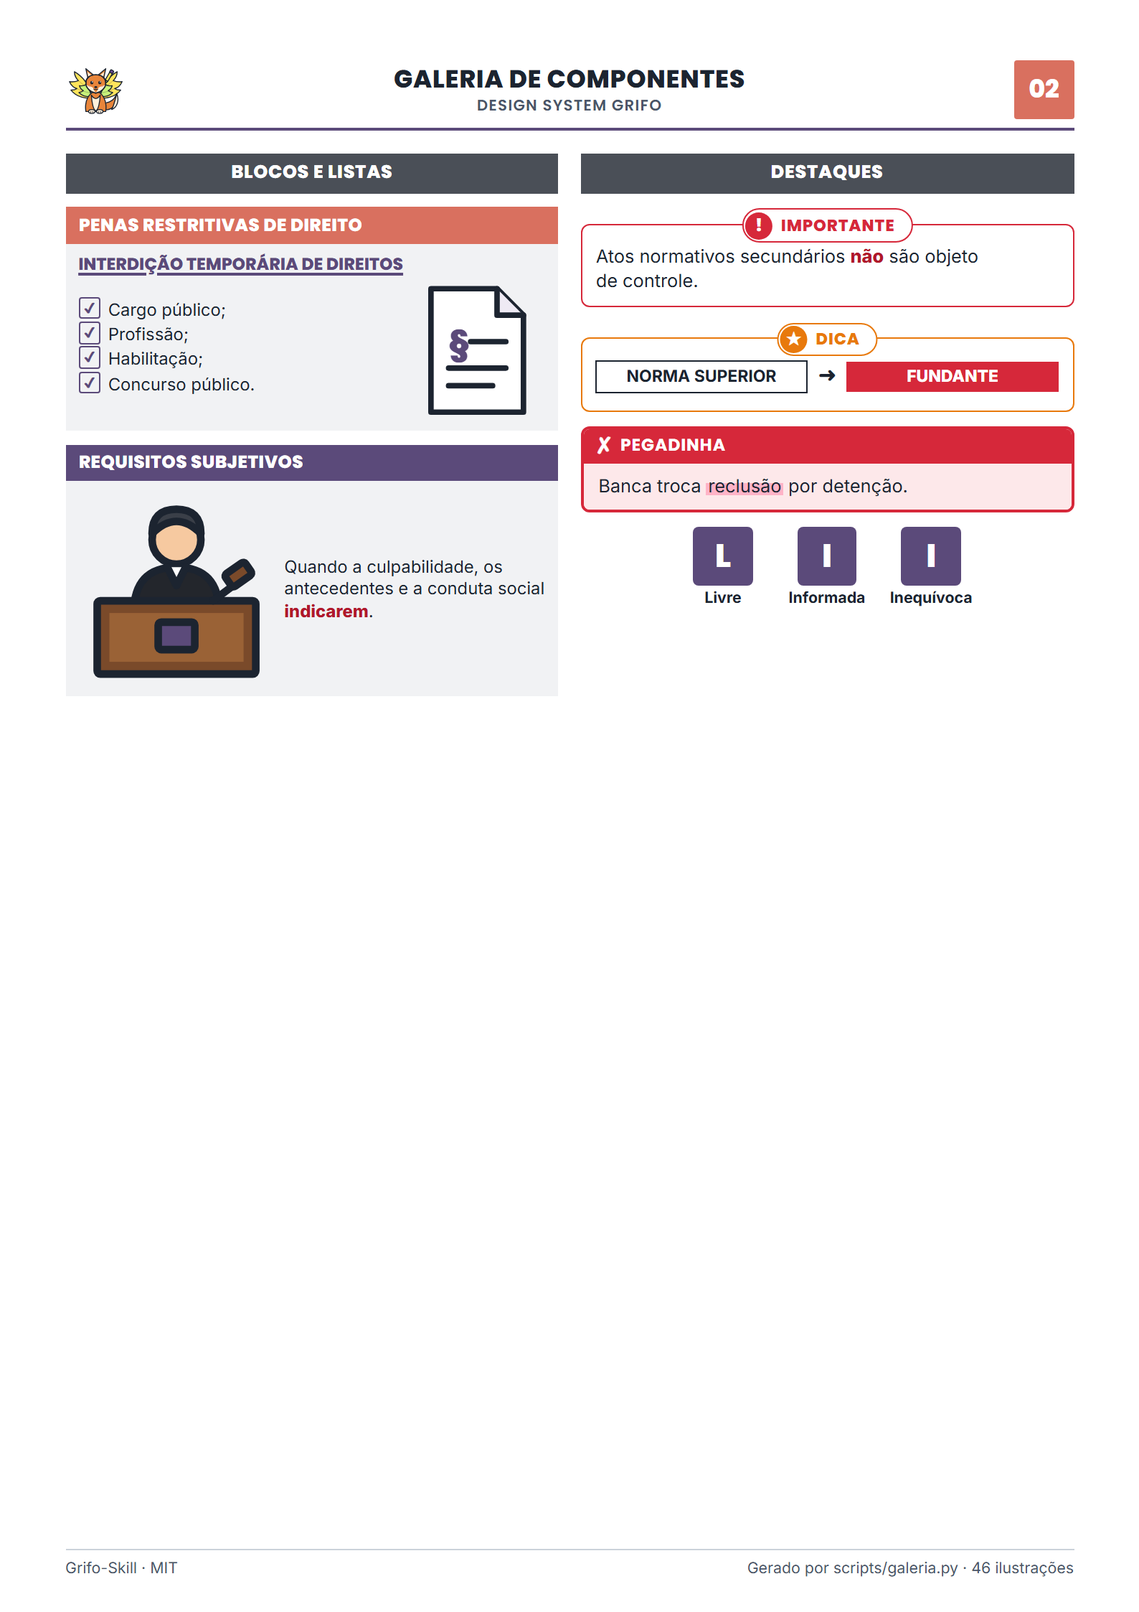
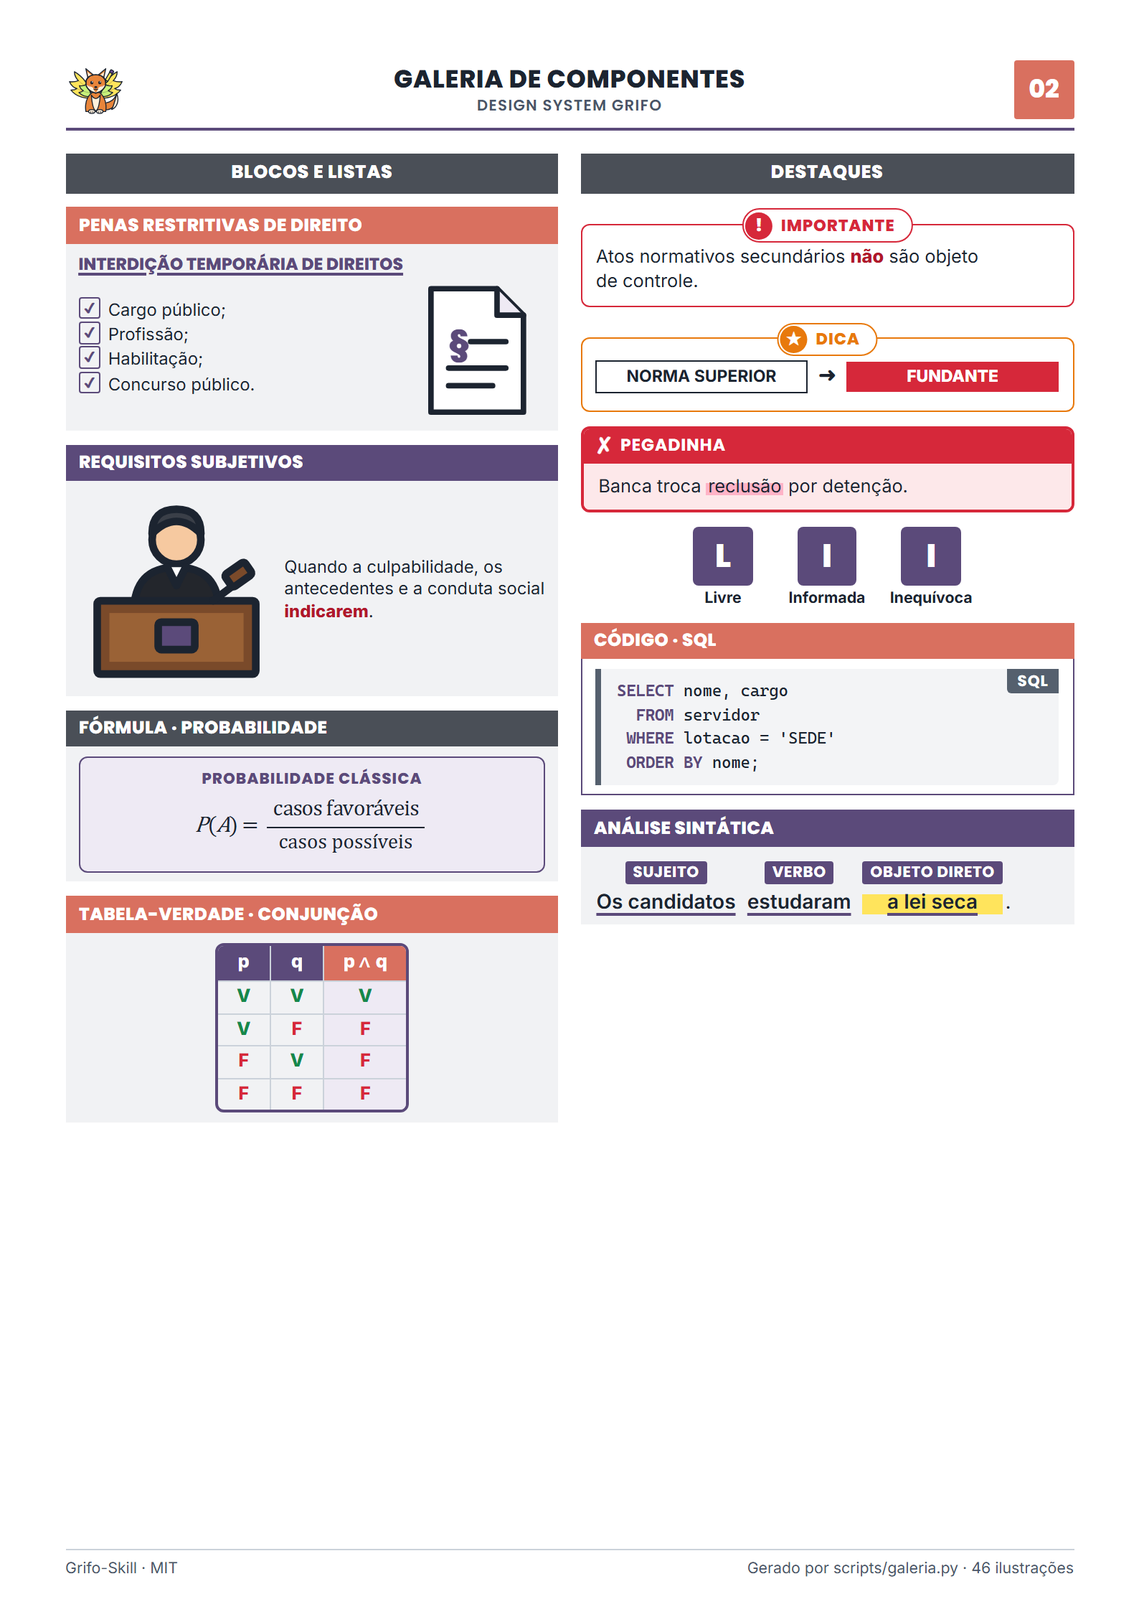
feat(componentes): .formula, table.verdade, pre.codigo e .exemplo-frase
CSS no grifo.css, exemplos em componentes.md, linha na tabela forma ->
componente do design.md §3 e amostra na folha 2 da galeria
(docs/galeria-componentes.png).

Changed region(s): [[0.0617, 0.374, 0.9565, 0.6857]]

diff --git a/exemplos/galeria.html b/exemplos/galeria.html
@@ -334,7 +334,7 @@ table.comparativo tr.destaque td { background: var(--pegadinha-claro) !important
 /* ===================== FLASHCARDS (recorte) ===================== */
 .flashcards { display: grid; grid-template-columns: 1fr 1fr; gap: 0; border: 1px dashed #999; }
 .flashcards .card {
-  min-height: 52mm; padding: 4mm; border: 1px dashed #999; display: flex; flex-direction: column; justify-content: center;
+  min-height: 29mm; padding: 3mm 4mm; border: 1px dashed #999; display: flex; flex-direction: column; justify-content: center;
   text-align: center; break-inside: avoid; position: relative;
 }
 .flashcards .card .lado { position: absolute; top: 2mm; left: 3mm; font-size: 8pt; color: var(--tinta-2); text-transform: uppercase; letter-spacing: .08em; }
@@ -517,6 +517,81 @@ h1, h2, h3, h4, .faixa, .coluna-cab, .titulo-topico, .titulo-topo, .secao, .sub,
   -webkit-hyphens: manual; hyphens: manual;
 }
 .faixa, .coluna-cab, .titulo-topico, .secao, th, .rotulo { text-wrap: balance; }
+
+/* ===================== FÓRMULA (RLM, estatística, financeira) =====================
+   <div class="formula"><span class="rot">Probabilidade</span>
+     P(A) = <span class="frac"><span>favoráveis</span><span>possíveis</span></span></div> */
+.formula {
+  font-family: "STIX Two Math", "Cambria Math", Cambria, Georgia, "Times New Roman", serif;
+  font-size: 11.5pt; text-align: center; background: var(--disc-claro);
+  border: 1.5px solid var(--disc); border-radius: var(--raio); padding: 2mm 3mm; margin: 1mm 0;
+  break-inside: avoid; line-height: 1.5;
+}
+.formula .rot {
+  display: block; font-family: var(--fonte-titulo); font-size: 8pt; font-weight: 800;
+  text-transform: uppercase; letter-spacing: .05em; color: var(--disc); margin-bottom: .5mm;
+}
+.formula i, .formula var { font-style: italic; }
+.formula .frac { display: inline-flex; flex-direction: column; vertical-align: middle; text-align: center; margin: 0 .2em; }
+.formula .frac > span { padding: 0 .3em; }
+.formula .frac > span:first-child { border-bottom: 1.2px solid currentColor; }
+.formula .frac > span:last-child { font-size: .95em; }
+
+/* ===================== TABELA-VERDADE =====================
+   <table class="verdade"><tr><th>p</th><th>q</th><th>p ∧ q</th></tr>
+     <tr><td class="v">V</td><td class="f">F</td><td class="f res">F</td></tr></table>
+   V verde, F vermelho e a coluna de resultado (.res) sombreada; a letra
+   V/F continua escrita, então funciona em P&B. */
+table.verdade {
+  border-collapse: separate; border-spacing: 0; margin: 1mm auto; font-size: 9.5pt;
+  border: 2px solid var(--disc); border-radius: var(--raio); overflow: hidden; break-inside: avoid;
+}
+table.verdade th {
+  background: var(--disc); color: #fff; font-family: var(--fonte-corpo); font-weight: 800;
+  padding: 1mm 3.5mm; text-align: center; white-space: nowrap;
+}
+table.verdade td { text-align: center; font-weight: 800; padding: .6mm 3.5mm; border-top: 1px solid var(--linha); }
+table.verdade td + td, table.verdade th + th { border-left: 1px solid var(--linha); }
+table.verdade td.v { color: var(--dica); }
+table.verdade td.f { color: var(--pegadinha); }
+table.verdade td.res { background: var(--disc-claro); }
+table.verdade th.res { background: var(--disc-2); }
+table.verdade tr.destaque td { background: var(--mt-chave); }
+
+/* ===================== CÓDIGO (TI: SQL, pseudocódigo) =====================
+   <pre class="codigo"><span class="rot">SQL</span>SELECT …</pre>  — sem syntax highlight */
+.codigo {
+  font-family: "JetBrains Mono", "Cascadia Mono", Consolas, "Courier New", monospace;
+  font-size: 8.5pt; line-height: 1.45; background: var(--lei-claro); color: var(--tinta);
+  border-left: 4px solid var(--lei); border-radius: 0 4px 4px 0; padding: 2mm 3mm; margin: 1mm 0;
+  white-space: pre-wrap; overflow-wrap: anywhere; hyphens: none; position: relative; break-inside: avoid;
+}
+.codigo .rot {
+  position: absolute; top: 0; right: 0; background: var(--lei); color: #fff;
+  font-family: var(--fonte-titulo); font-size: 8pt; font-weight: 700; text-transform: uppercase;
+  padding: .2mm 2mm; border-radius: 0 0 0 3px; letter-spacing: .05em;
+}
+.codigo b { color: var(--disc); }
+
+/* ===================== EXEMPLO-FRASE (Português: análise) =====================
+   <p class="exemplo-frase"><span class="termo" data-funcao="sujeito">Os candidatos</span> …</p>
+   Trecho analisado sublinhado; função sintática em rótulo acima. */
+.exemplo-frase { font-size: 10.5pt; line-height: 1.3; margin: 1mm 0 2mm; }
+/* rótulo no fluxo (não absoluto): o termo fica tão largo quanto o rótulo e
+   os rótulos vizinhos nunca se sobrepõem */
+.exemplo-frase .termo {
+  display: inline-flex; flex-direction: column; align-items: center; vertical-align: bottom;
+  margin: 1mm .15em 0; font-weight: 600;
+  text-decoration: underline 2.2px var(--disc); text-underline-offset: 3px; text-decoration-skip-ink: none;
+}
+.exemplo-frase .termo::before {
+  content: attr(data-funcao); margin-bottom: .8mm; font-family: var(--fonte-titulo); font-size: 8pt;
+  font-weight: 700; text-transform: uppercase; letter-spacing: .03em; color: #fff; background: var(--disc);
+  padding: 0 1.4mm; border-radius: 2px; white-space: nowrap; line-height: 1.5; text-decoration: none;
+}
+.exemplo-frase .termo.destaque { background: linear-gradient(transparent 62%, var(--mt-chave) 62%); }
+.exemplo-frase .termo.erro { text-decoration-color: var(--pegadinha); }
+.exemplo-frase .termo.erro::before { background: var(--pegadinha); }
 
 </style>
 <style>
@@ -862,12 +937,31 @@ h1, h2, h3, h4, .faixa, .coluna-cab, .titulo-topico, .titulo-topo, .secao, .sub,
    <div class="com-ilustra"><ul class="check"><li>Cargo público;</li><li>Profissão;</li><li>Habilitação;</li><li>Concurso público.</li></ul><svg class="ilustra g"><use href="#i-documento"/></svg></div>
   </div></div>
   <div class="bloco primaria"><div class="faixa">Requisitos subjetivos</div><div class="corpo"><div class="com-ilustra esq"><svg class="ilustra gg"><use href="#i-juiz"/></svg><p>Quando a culpabilidade, os antecedentes e a conduta social <span class="chave-v">indicarem</span>.</p></div></div></div>
+  <div class="bloco escura"><div class="faixa">Fórmula · probabilidade</div><div class="corpo">
+   <div class="formula"><span class="rot">Probabilidade clássica</span><i>P</i>(<i>A</i>) = <span class="frac"><span>casos favoráveis</span><span>casos possíveis</span></span></div>
+  </div></div>
+  <div class="bloco"><div class="faixa">Tabela-verdade · conjunção</div><div class="corpo">
+   <table class="verdade"><tr><th>p</th><th>q</th><th class="res">p ∧ q</th></tr>
+   <tr><td class="v">V</td><td class="v">V</td><td class="v res">V</td></tr>
+   <tr><td class="v">V</td><td class="f">F</td><td class="f res">F</td></tr>
+   <tr><td class="f">F</td><td class="v">V</td><td class="f res">F</td></tr>
+   <tr><td class="f">F</td><td class="f">F</td><td class="f res">F</td></tr></table>
+  </div></div>
  </div>
  <div class="coluna"><div class="coluna-cab">Destaques</div>
   <div class="tag-caixa"><span class="tag">Importante</span><p>Atos normativos secundários <span class="chave-v">não</span> são objeto de controle.</p></div>
   <div class="tag-caixa dica"><span class="tag dica">Dica</span><div class="relacao"><div class="de">Norma superior</div><div class="seta">➜</div><div class="para">Fundante</div></div></div>
   <div class="caixa pegadinha"><div class="rotulo">Pegadinha</div><div class="corpo">Banca troca <mark class="troca">reclusão</mark> por detenção.</div></div>
   <div class="sigla"><div class="letra"><b>L</b><span>Livre</span></div><div class="letra"><b>I</b><span>Informada</span></div><div class="letra"><b>I</b><span>Inequívoca</span></div></div>
+  <div class="bloco contorno"><div class="faixa">Código · SQL</div><div class="corpo">
+   <pre class="codigo"><span class="rot">SQL</span><b>SELECT</b> nome, cargo
+  <b>FROM</b> servidor
+ <b>WHERE</b> lotacao = 'SEDE'
+ <b>ORDER BY</b> nome;</pre>
+  </div></div>
+  <div class="bloco primaria"><div class="faixa">Análise sintática</div><div class="corpo">
+   <p class="exemplo-frase"><span class="termo" data-funcao="sujeito">Os candidatos</span> <span class="termo" data-funcao="verbo">estudaram</span> <span class="termo destaque" data-funcao="objeto direto">a lei seca</span>.</p>
+  </div></div>
  </div>
 </div>
 <div class="rodape-folha"><span>Grifo-Skill · MIT</span><span>Gerado por scripts/<wbr>galeria.py · 46 ilustrações</span></div></div>

diff --git a/skills/grifo/assets/grifo.css b/skills/grifo/assets/grifo.css
@@ -513,3 +513,78 @@ h1, h2, h3, h4, .faixa, .coluna-cab, .titulo-topico, .titulo-topo, .secao, .sub,
   -webkit-hyphens: manual; hyphens: manual;
 }
 .faixa, .coluna-cab, .titulo-topico, .secao, th, .rotulo { text-wrap: balance; }
+
+/* ===================== FÓRMULA (RLM, estatística, financeira) =====================
+   <div class="formula"><span class="rot">Probabilidade</span>
+     P(A) = <span class="frac"><span>favoráveis</span><span>possíveis</span></span></div> */
+.formula {
+  font-family: "STIX Two Math", "Cambria Math", Cambria, Georgia, "Times New Roman", serif;
+  font-size: 11.5pt; text-align: center; background: var(--disc-claro);
+  border: 1.5px solid var(--disc); border-radius: var(--raio); padding: 2mm 3mm; margin: 1mm 0;
+  break-inside: avoid; line-height: 1.5;
+}
+.formula .rot {
+  display: block; font-family: var(--fonte-titulo); font-size: 8pt; font-weight: 800;
+  text-transform: uppercase; letter-spacing: .05em; color: var(--disc); margin-bottom: .5mm;
+}
+.formula i, .formula var { font-style: italic; }
+.formula .frac { display: inline-flex; flex-direction: column; vertical-align: middle; text-align: center; margin: 0 .2em; }
+.formula .frac > span { padding: 0 .3em; }
+.formula .frac > span:first-child { border-bottom: 1.2px solid currentColor; }
+.formula .frac > span:last-child { font-size: .95em; }
+
+/* ===================== TABELA-VERDADE =====================
+   <table class="verdade"><tr><th>p</th><th>q</th><th>p ∧ q</th></tr>
+     <tr><td class="v">V</td><td class="f">F</td><td class="f res">F</td></tr></table>
+   V verde, F vermelho e a coluna de resultado (.res) sombreada; a letra
+   V/F continua escrita, então funciona em P&B. */
+table.verdade {
+  border-collapse: separate; border-spacing: 0; margin: 1mm auto; font-size: 9.5pt;
+  border: 2px solid var(--disc); border-radius: var(--raio); overflow: hidden; break-inside: avoid;
+}
+table.verdade th {
+  background: var(--disc); color: #fff; font-family: var(--fonte-corpo); font-weight: 800;
+  padding: 1mm 3.5mm; text-align: center; white-space: nowrap;
+}
+table.verdade td { text-align: center; font-weight: 800; padding: .6mm 3.5mm; border-top: 1px solid var(--linha); }
+table.verdade td + td, table.verdade th + th { border-left: 1px solid var(--linha); }
+table.verdade td.v { color: var(--dica); }
+table.verdade td.f { color: var(--pegadinha); }
+table.verdade td.res { background: var(--disc-claro); }
+table.verdade th.res { background: var(--disc-2); }
+table.verdade tr.destaque td { background: var(--mt-chave); }
+
+/* ===================== CÓDIGO (TI: SQL, pseudocódigo) =====================
+   <pre class="codigo"><span class="rot">SQL</span>SELECT …</pre>  — sem syntax highlight */
+.codigo {
+  font-family: "JetBrains Mono", "Cascadia Mono", Consolas, "Courier New", monospace;
+  font-size: 8.5pt; line-height: 1.45; background: var(--lei-claro); color: var(--tinta);
+  border-left: 4px solid var(--lei); border-radius: 0 4px 4px 0; padding: 2mm 3mm; margin: 1mm 0;
+  white-space: pre-wrap; overflow-wrap: anywhere; hyphens: none; position: relative; break-inside: avoid;
+}
+.codigo .rot {
+  position: absolute; top: 0; right: 0; background: var(--lei); color: #fff;
+  font-family: var(--fonte-titulo); font-size: 8pt; font-weight: 700; text-transform: uppercase;
+  padding: .2mm 2mm; border-radius: 0 0 0 3px; letter-spacing: .05em;
+}
+.codigo b { color: var(--disc); }
+
+/* ===================== EXEMPLO-FRASE (Português: análise) =====================
+   <p class="exemplo-frase"><span class="termo" data-funcao="sujeito">Os candidatos</span> …</p>
+   Trecho analisado sublinhado; função sintática em rótulo acima. */
+.exemplo-frase { font-size: 10.5pt; line-height: 1.3; margin: 1mm 0 2mm; }
+/* rótulo no fluxo (não absoluto): o termo fica tão largo quanto o rótulo e
+   os rótulos vizinhos nunca se sobrepõem */
+.exemplo-frase .termo {
+  display: inline-flex; flex-direction: column; align-items: center; vertical-align: bottom;
+  margin: 1mm .15em 0; font-weight: 600;
+  text-decoration: underline 2.2px var(--disc); text-underline-offset: 3px; text-decoration-skip-ink: none;
+}
+.exemplo-frase .termo::before {
+  content: attr(data-funcao); margin-bottom: .8mm; font-family: var(--fonte-titulo); font-size: 8pt;
+  font-weight: 700; text-transform: uppercase; letter-spacing: .03em; color: #fff; background: var(--disc);
+  padding: 0 1.4mm; border-radius: 2px; white-space: nowrap; line-height: 1.5; text-decoration: none;
+}
+.exemplo-frase .termo.destaque { background: linear-gradient(transparent 62%, var(--mt-chave) 62%); }
+.exemplo-frase .termo.erro { text-decoration-color: var(--pegadinha); }
+.exemplo-frase .termo.erro::before { background: var(--pegadinha); }

diff --git a/exemplos/galeria-fonte.html b/exemplos/galeria-fonte.html
@@ -18,12 +18,31 @@
    <div class="com-ilustra"><ul class="check"><li>Cargo público;</li><li>Profissão;</li><li>Habilitação;</li><li>Concurso público.</li></ul><svg class="ilustra g"><use href="#i-documento"/></svg></div>
   </div></div>
   <div class="bloco primaria"><div class="faixa">Requisitos subjetivos</div><div class="corpo"><div class="com-ilustra esq"><svg class="ilustra gg"><use href="#i-juiz"/></svg><p>Quando a culpabilidade, os antecedentes e a conduta social <span class="chave-v">indicarem</span>.</p></div></div></div>
+  <div class="bloco escura"><div class="faixa">Fórmula · probabilidade</div><div class="corpo">
+   <div class="formula"><span class="rot">Probabilidade clássica</span><i>P</i>(<i>A</i>) = <span class="frac"><span>casos favoráveis</span><span>casos possíveis</span></span></div>
+  </div></div>
+  <div class="bloco"><div class="faixa">Tabela-verdade · conjunção</div><div class="corpo">
+   <table class="verdade"><tr><th>p</th><th>q</th><th class="res">p ∧ q</th></tr>
+   <tr><td class="v">V</td><td class="v">V</td><td class="v res">V</td></tr>
+   <tr><td class="v">V</td><td class="f">F</td><td class="f res">F</td></tr>
+   <tr><td class="f">F</td><td class="v">V</td><td class="f res">F</td></tr>
+   <tr><td class="f">F</td><td class="f">F</td><td class="f res">F</td></tr></table>
+  </div></div>
  </div>
  <div class="coluna"><div class="coluna-cab">Destaques</div>
   <div class="tag-caixa"><span class="tag">Importante</span><p>Atos normativos secundários <span class="chave-v">não</span> são objeto de controle.</p></div>
   <div class="tag-caixa dica"><span class="tag dica">Dica</span><div class="relacao"><div class="de">Norma superior</div><div class="seta">➜</div><div class="para">Fundante</div></div></div>
   <div class="caixa pegadinha"><div class="rotulo">Pegadinha</div><div class="corpo">Banca troca <mark class="troca">reclusão</mark> por detenção.</div></div>
   <div class="sigla"><div class="letra"><b>L</b><span>Livre</span></div><div class="letra"><b>I</b><span>Informada</span></div><div class="letra"><b>I</b><span>Inequívoca</span></div></div>
+  <div class="bloco contorno"><div class="faixa">Código · SQL</div><div class="corpo">
+   <pre class="codigo"><span class="rot">SQL</span><b>SELECT</b> nome, cargo
+  <b>FROM</b> servidor
+ <b>WHERE</b> lotacao = 'SEDE'
+ <b>ORDER BY</b> nome;</pre>
+  </div></div>
+  <div class="bloco primaria"><div class="faixa">Análise sintática</div><div class="corpo">
+   <p class="exemplo-frase"><span class="termo" data-funcao="sujeito">Os candidatos</span> <span class="termo" data-funcao="verbo">estudaram</span> <span class="termo destaque" data-funcao="objeto direto">a lei seca</span>.</p>
+  </div></div>
  </div>
 </div>
 <div class="rodape-folha"><span>Grifo-Skill · MIT</span><span>Gerado por scripts/galeria.py · 46 ilustrações</span></div></div>

diff --git a/skills/grifo/scripts/galeria.py b/skills/grifo/scripts/galeria.py
@@ -54,12 +54,31 @@ COMPONENTES = """
    <div class="com-ilustra"><ul class="check"><li>Cargo público;</li><li>Profissão;</li><li>Habilitação;</li><li>Concurso público.</li></ul><svg class="ilustra g"><use href="#i-documento"/></svg></div>
   </div></div>
   <div class="bloco primaria"><div class="faixa">Requisitos subjetivos</div><div class="corpo"><div class="com-ilustra esq"><svg class="ilustra gg"><use href="#i-juiz"/></svg><p>Quando a culpabilidade, os antecedentes e a conduta social <span class="chave-v">indicarem</span>.</p></div></div></div>
+  <div class="bloco escura"><div class="faixa">Fórmula · probabilidade</div><div class="corpo">
+   <div class="formula"><span class="rot">Probabilidade clássica</span><i>P</i>(<i>A</i>) = <span class="frac"><span>casos favoráveis</span><span>casos possíveis</span></span></div>
+  </div></div>
+  <div class="bloco"><div class="faixa">Tabela-verdade · conjunção</div><div class="corpo">
+   <table class="verdade"><tr><th>p</th><th>q</th><th class="res">p ∧ q</th></tr>
+   <tr><td class="v">V</td><td class="v">V</td><td class="v res">V</td></tr>
+   <tr><td class="v">V</td><td class="f">F</td><td class="f res">F</td></tr>
+   <tr><td class="f">F</td><td class="v">V</td><td class="f res">F</td></tr>
+   <tr><td class="f">F</td><td class="f">F</td><td class="f res">F</td></tr></table>
+  </div></div>
  </div>
  <div class="coluna"><div class="coluna-cab">Destaques</div>
   <div class="tag-caixa"><span class="tag">Importante</span><p>Atos normativos secundários <span class="chave-v">não</span> são objeto de controle.</p></div>
   <div class="tag-caixa dica"><span class="tag dica">Dica</span><div class="relacao"><div class="de">Norma superior</div><div class="seta">➜</div><div class="para">Fundante</div></div></div>
   <div class="caixa pegadinha"><div class="rotulo">Pegadinha</div><div class="corpo">Banca troca <mark class="troca">reclusão</mark> por detenção.</div></div>
   <div class="sigla"><div class="letra"><b>L</b><span>Livre</span></div><div class="letra"><b>I</b><span>Informada</span></div><div class="letra"><b>I</b><span>Inequívoca</span></div></div>
+  <div class="bloco contorno"><div class="faixa">Código · SQL</div><div class="corpo">
+   <pre class="codigo"><span class="rot">SQL</span><b>SELECT</b> nome, cargo
+  <b>FROM</b> servidor
+ <b>WHERE</b> lotacao = 'SEDE'
+ <b>ORDER BY</b> nome;</pre>
+  </div></div>
+  <div class="bloco primaria"><div class="faixa">Análise sintática</div><div class="corpo">
+   <p class="exemplo-frase"><span class="termo" data-funcao="sujeito">Os candidatos</span> <span class="termo" data-funcao="verbo">estudaram</span> <span class="termo destaque" data-funcao="objeto direto">a lei seca</span>.</p>
+  </div></div>
  </div>
 </div>
 """

diff --git a/skills/grifo/references/componentes.md b/skills/grifo/references/componentes.md
@@ -220,3 +220,48 @@ Pirâmide só em CSS: `.piramide > .nivel` (até 5 níveis, topo primeiro).
 <div class="folha sumario"><h2 class="secao">Sumário</h2>
   <ol><li>Teoria da Constituição<span class="pg">03</span></li></ol></div>
 ```
+
+## Fórmula (RLM, estatística, matemática financeira)
+```html
+<div class="formula"><span class="rot">Probabilidade clássica</span>
+  <i>P</i>(<i>A</i>) = <span class="frac"><span>casos favoráveis</span><span>casos possíveis</span></span>
+</div>
+<div class="formula"><span class="rot">Juros compostos</span><i>M</i> = <i>C</i> · (1 + <i>i</i>)<sup><i>t</i></sup></div>
+```
+Fonte serifada, fundo claro da disciplina. Variáveis em `<i>`; fração com `.frac`
+(numerador e denominador em dois `<span>`); expoente com `<sup>`.
+
+## Tabela-verdade
+```html
+<table class="verdade">
+  <tr><th>p</th><th>q</th><th class="res">p → q</th></tr>
+  <tr><td class="v">V</td><td class="v">V</td><td class="v res">V</td></tr>
+  <tr class="destaque"><td class="v">V</td><td class="f">F</td><td class="f res">F</td></tr>
+  <tr><td class="f">F</td><td class="v">V</td><td class="v res">V</td></tr>
+  <tr><td class="f">F</td><td class="f">F</td><td class="v res">V</td></tr>
+</table>
+```
+`td.v` = V (verde), `td.f` = F (vermelho), `.res` sombreia a coluna de resultado,
+`tr.destaque` marca a linha que decide (ex.: o único F do condicional). A letra continua
+escrita, então lê em P&B.
+
+## Código (TI: SQL, pseudocódigo, comandos)
+```html
+<pre class="codigo"><span class="rot">SQL</span><b>SELECT</b> nome
+  <b>FROM</b> servidor
+ <b>WHERE</b> lotacao = 'SEDE';</pre>
+```
+Monoespaçado, sem syntax highlight. `<b>` só para palavras reservadas que importam
+para a questão. Recuo preservado (é `<pre>`); linha longa quebra sozinha.
+
+## Exemplo de frase (Português: análise sintática, crase, regência)
+```html
+<p class="exemplo-frase">
+  <span class="termo" data-funcao="sujeito">Os candidatos</span>
+  <span class="termo" data-funcao="verbo">estudaram</span>
+  <span class="termo destaque" data-funcao="objeto direto">a lei seca</span>.
+</p>
+```
+Trecho analisado sublinhado e a função em rótulo acima (`data-funcao`).
+`.destaque` = marca-texto no trecho em foco; `.erro` = sublinhado e rótulo vermelhos
+(para a versão errada de uma frase).

diff --git a/skills/grifo/references/design.md b/skills/grifo/references/design.md
@@ -72,6 +72,10 @@ Secundária (`--disc-2`): faixas padrão `.bloco`, nº da página.
 | Macete | `.tag-caixa.dica` |
 | Artigo literal | `.lei-seca` |
 | Caso prático | `.caixa.exemplo` |
+| Fórmula (RLM, estatística, financeira) | `.formula` (com `.frac` para frações) |
+| Lógica proposicional: valores de conectivos | `table.verdade` |
+| SQL, pseudocódigo, comando de terminal | `pre.codigo` |
+| Frase analisada (sintaxe, crase, regência, concordância) | `.exemplo-frase` com `.termo[data-funcao]` |
 | Conceito puro | `.bloco` com texto curto + `.chave-v` no termo + ilustração lateral (`.com-ilustra`) |
 
 Diagrama que nenhum componente resolve (ciclo, mapa, Venn, organograma largo):
